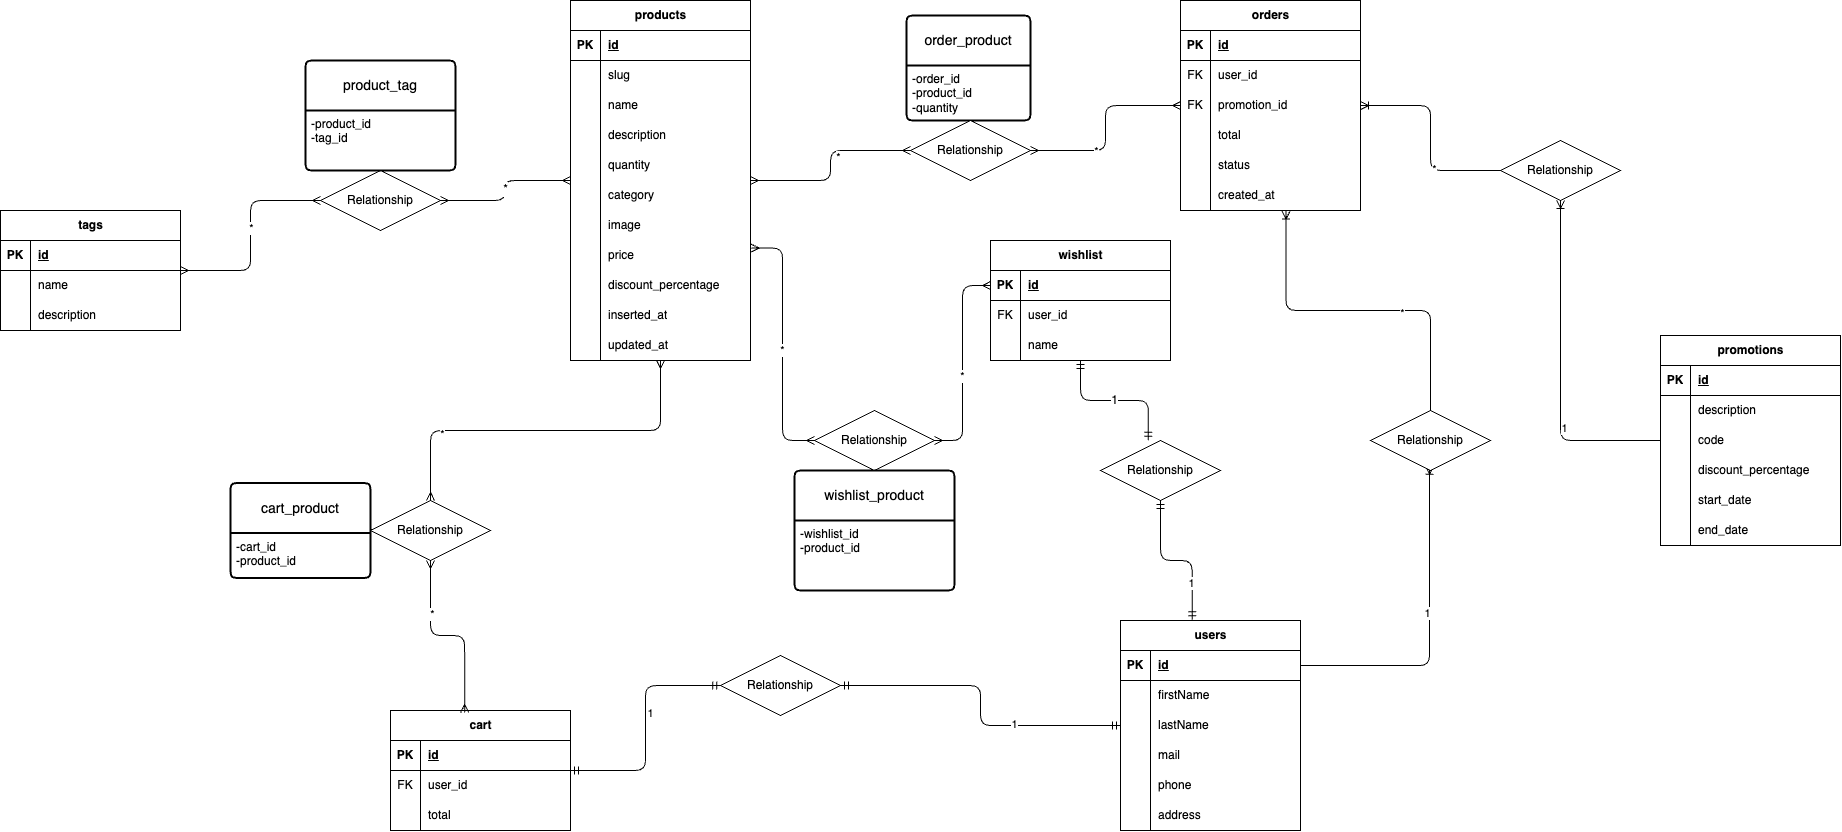
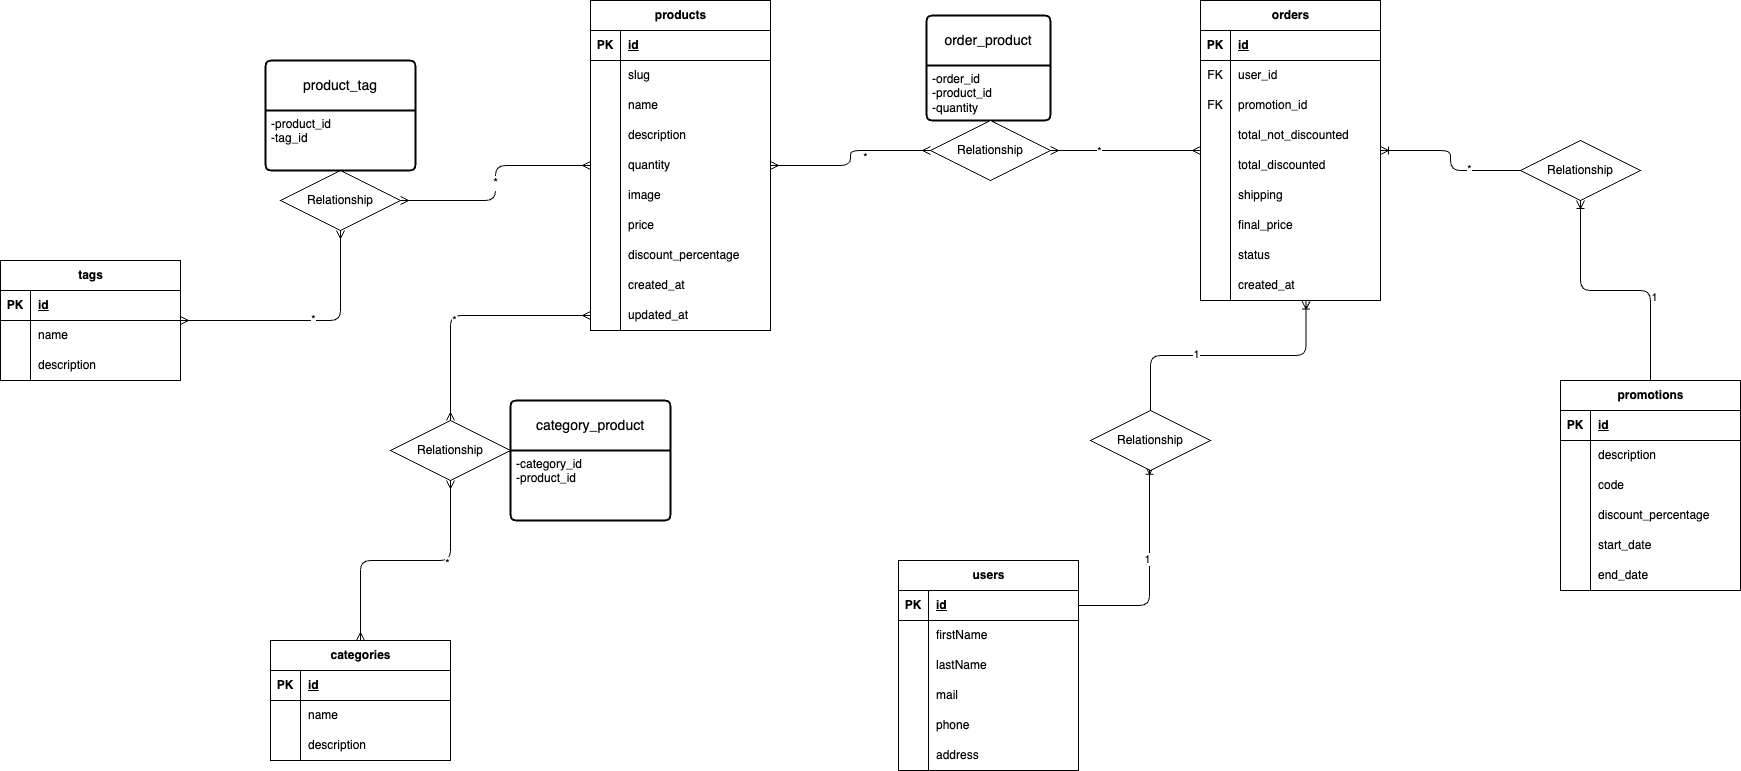
refactor database schema: update orders and categories tables, remove cart and wishlist tables

diff --git a/DB/README.md b/DB/README.md
@@ -1,15 +1,13 @@
 ## ENTITIES
-- products (id, slug, name, description, quantity, category, image, price, discount_percentage, inserted_at, updated_at)
-- orders (id, user_id, promotion_id, total, status, created_at)
+- products (id, slug, name, description, quantity, image, price, discount_percentage, created_at, updated_at)
+- orders (id, user_id, promotion_id, total_not_discounted, total_discounted, shipping, final_price, status, created_at)
 - order_product (id, order_id, product_id, quantity)
 - tags (id, name, description)
 - product_tag (id, product_id, tag_id)
 - users (id, firstName, lastName, mail, phone, address)
 - promotions (id, description, code, discount_percentage, start_date, end_date)
-- cart (id, user_id, total)
-- cart_product (id, cart_id, product_id)
-- wishlist (id, user_id)
-- wishlist_product (id, wishlist_id, product_id)
+- categories (id, name, description)
+- category_product (category_id, product_id)
 
 ## Table name: `products`
 **Table columns**
@@ -30,7 +28,10 @@
 - id: (BIGINT) - primary key - auto increments - NOT NULL
 - user_id: (BIGINT) - foreign key - NOT NULL
 - promotion_id: (BIGINT) - foreign key - NULL
-- total: DECIMAL(6,2) - NOT NULL
+- total_not_discounted: DECIMAL(6,2) - NOT NULL
+- total_discounted: DECIMAL(6,2) - NOT NULL
+- shipping: DECIMAL(6,2) - NOT NULL - default(9,99)
+- final_price: DECIMAL(6,2) - NOT NULL
 - status: VARCHAR(50) - NOT NULL
 - created_at: (TIMESTAMP) - NOT NULL
 
@@ -69,25 +70,13 @@
 - start_date: (DATETIME) - NOT NULL
 - end_date: (DATETIME) - NOT NULL
 
-## Table name: `cart`
+## Table name: `categories`
 **Table columns**
 - id: (BIGINT) - primary key - auto increments - NOT NULL
-- user_id: (BIGINT) - foreign key - NOT NULL
-- total: DECIMAL(6,2) - NOT NULL
+- name: VARCHAR(50) - NOT NULL
+- description: VARCHAR(255) - NULL
 
-## Table name: `cart_product`
+## Table name: `category_product`
 **Table columns**
-- cart_id: (BIGINT) - NOT NULL
+- category_id: (BIGINT) - foreign key - NOT NULL
 - product_id: (BIGINT) - foreign key - NOT NULL
-
-## Table name: `wishlist`
-**Table columns**
-- id: (BIGINT) - primary key - auto increments - NOT NULL
-- name: VARCHR(50) - NOT NULL - default
-- user_id: (BIGINT) - foreign key - NOT NULL
-
-## Table name: `wishlist_product`
-**Table columns**
-- wishlist_id: (BIGINT) - foreign key - NOT NULL
-- product_id: (BIGINT) - foreign key - NOT NULL
-
